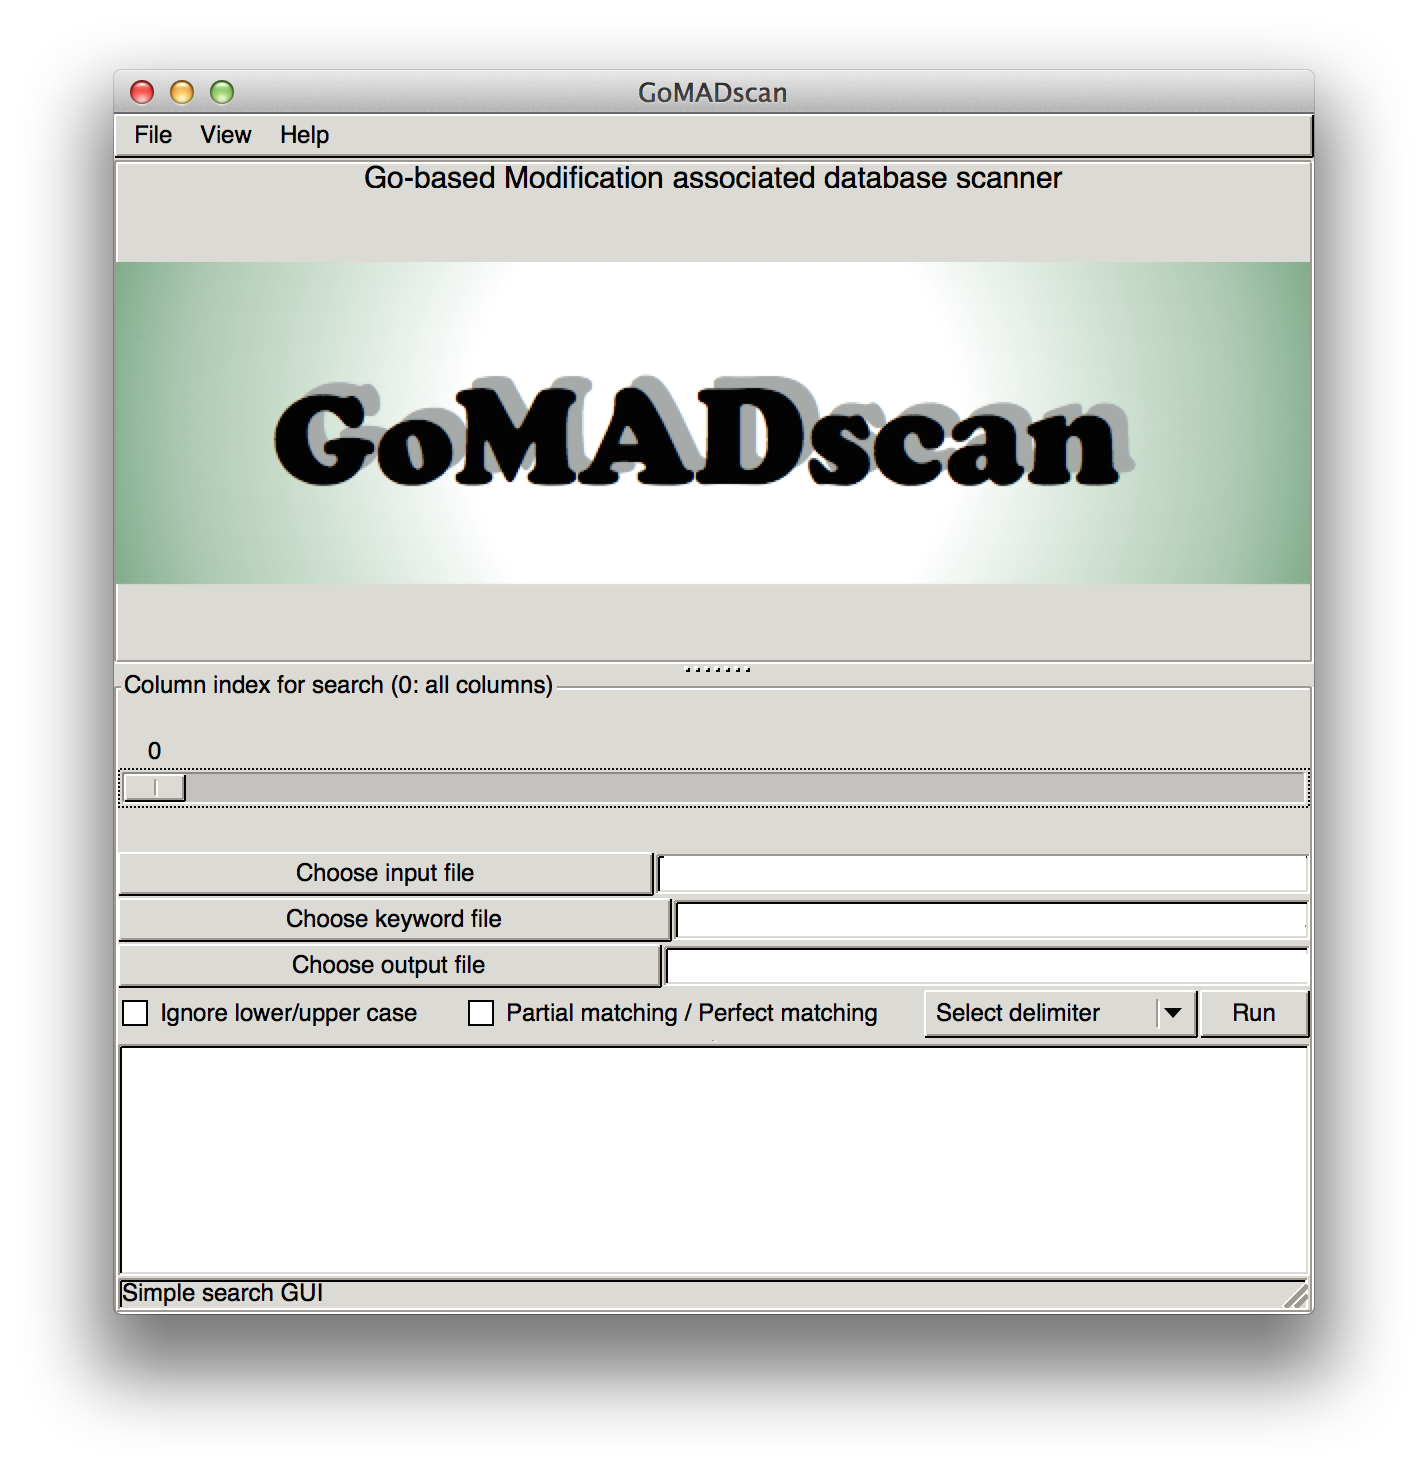
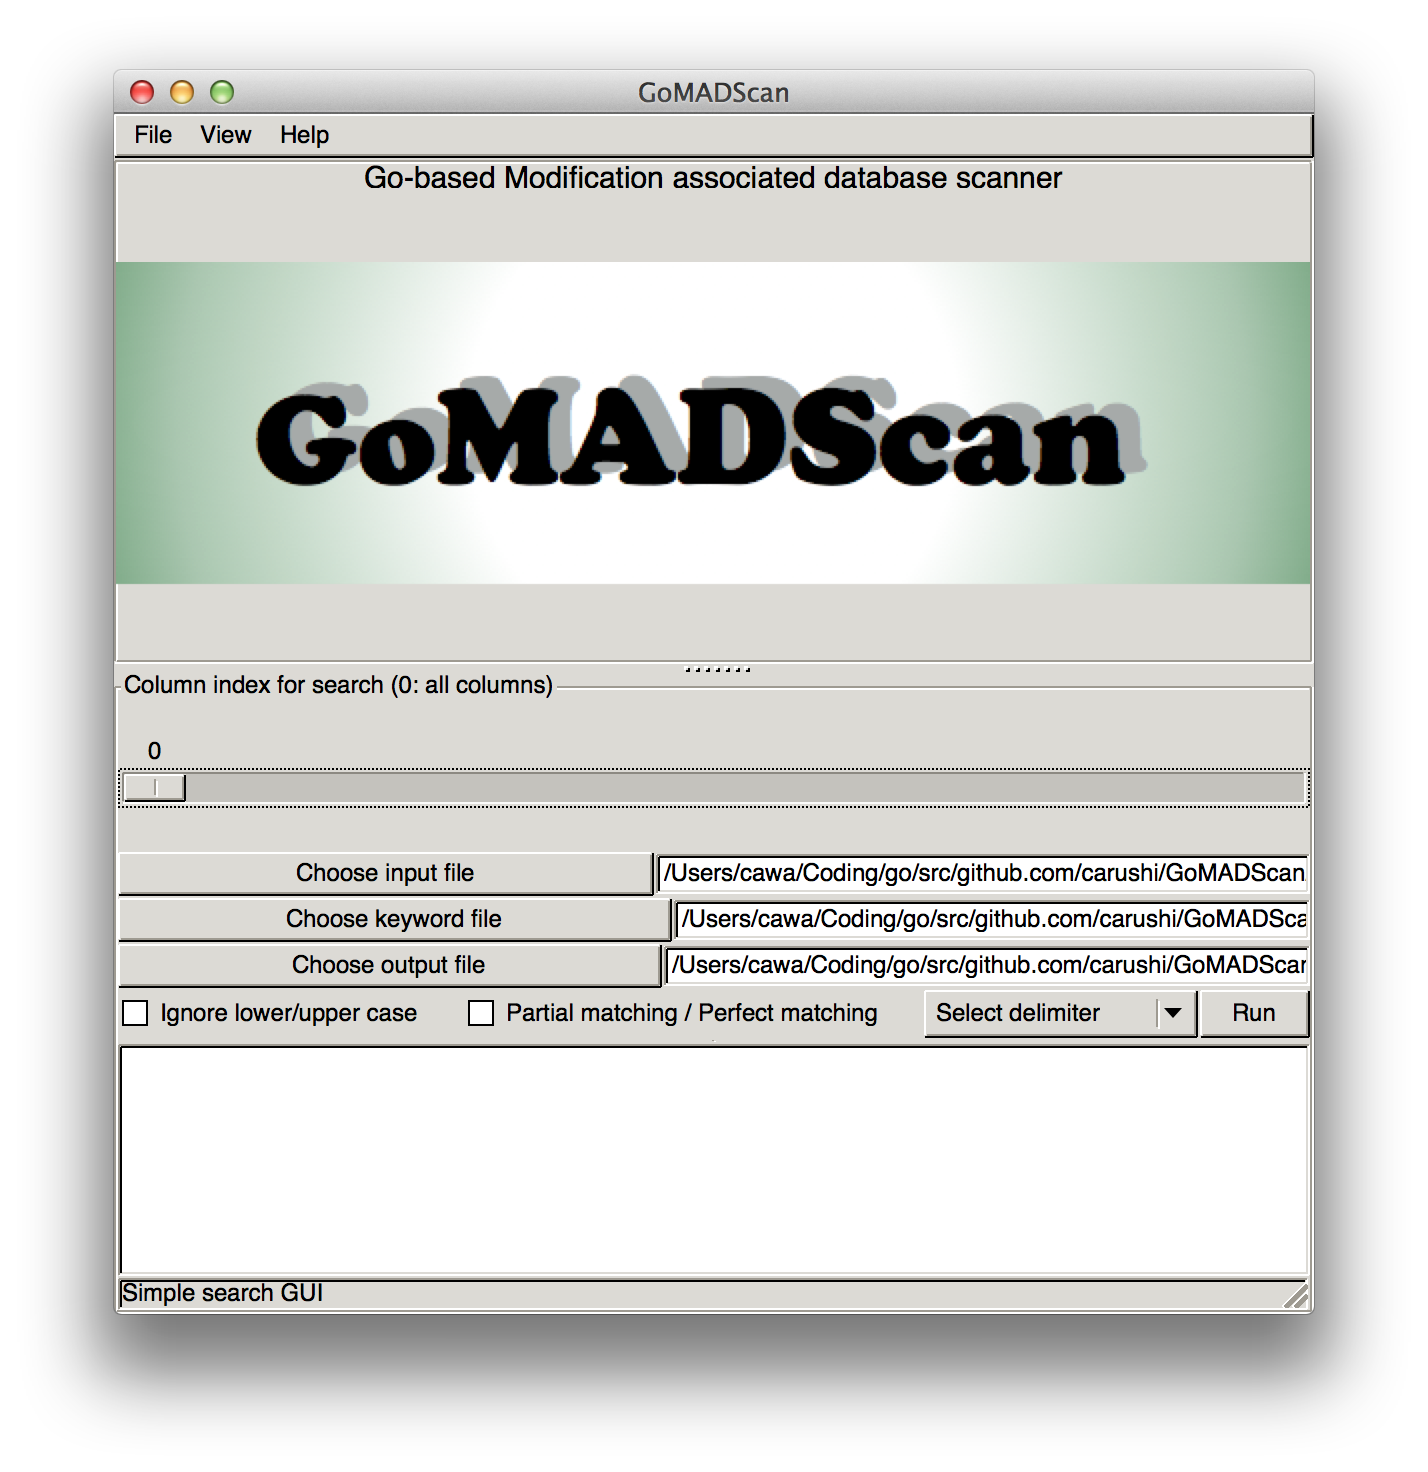
change name

Changed region(s): [[0.1541, 0.25, 0.8011, 0.3438], [0.4622, 0.5625, 0.9244, 0.6875], [0.5238, 0.0625, 0.5546, 0.0938]]

diff --git a/README.md b/README.md
@@ -1,12 +1,12 @@
-# GoMADscan
+# GoMADScan
 
 
-[![Build Status](https://drone.io/github.com/carushi/MADscan/status.png)](https://drone.io/github.com/carushi/GoMADscan/latest)
+[![Build Status](https://drone.io/github.com/carushi/GoMADScan/status.png)](https://drone.io/github.com/carushi/GoMADScan/latest)
 
 <font size=5>Go-based Modification Associated Database SCANner based on GUI</font>
 
-* GoMADscan is developed to achieve **user-friendly keyword searching**
-* GoMADscan can handle character separated values (CSV) files such as the dataset available in [PhosphoSitePlus](http://www.phosphosite.org/homeAction.action).
+* GoMADScan is developed to achieve **user-friendly keyword searching**
+* GoMADScan can handle character separated values (CSV) files such as the dataset available in [PhosphoSitePlus](http://www.phosphosite.org/homeAction.action).
 
 
 ## Downloads
@@ -14,10 +14,10 @@
 If you already have an environment to use go lang and gtk+, type a below command in your terminal.
 
 ```
-go get github.com/carushi/GoMADscan
+go get github.com/carushi/GoMADScan
 ```
 
-For a more detailed instruction, check our [wikipage](https://github.com/carushi/GoMADscan/wiki).
+For a more detailed instruction, check our [wikipage](https://github.com/carushi/GoMADScan/wiki).
 
 ![](image/window.png)
 
